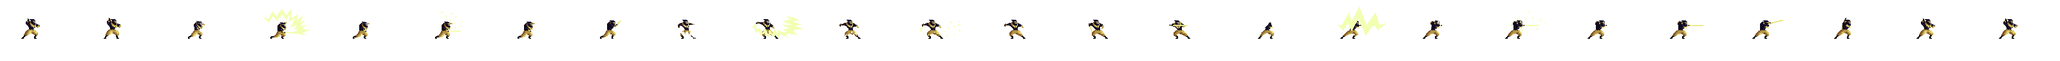
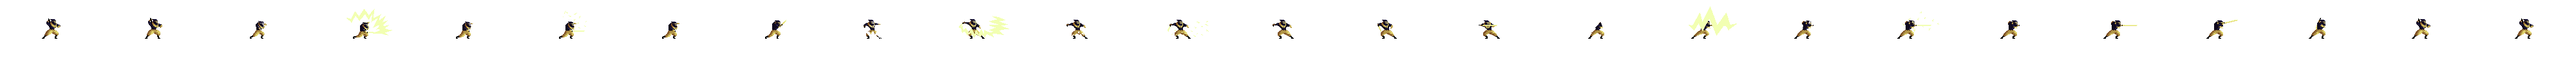
Update Ronin attack sprite and adjust frame dimensions for improved animation

Changed region(s): [[0.0938, 0.1562, 0.7812, 0.625], [0.8125, 0.3125, 1.0, 0.5938], [0.0, 0.3125, 0.0625, 0.5938]]

diff --git a/src/constants/ronin.constants.ts b/src/constants/ronin.constants.ts
@@ -33,7 +33,7 @@ export const ronin_constants = [
     spriteKey: "Ronin_Attack",
     spritePath: "./img/Ronin/Ronin_Attack.png",
     spriteConfiguration: {
-      frameWidth: 128,
+      frameWidth: 160,
       frameHeight: 96,
     },
     animationKey: "ronin_attack",
@@ -41,7 +41,7 @@ export const ronin_constants = [
       start: 0,
       end: 24,
     },
-    frameRate: 12,
+    frameRate: 18,
     repeat: 1,
   },
   {
